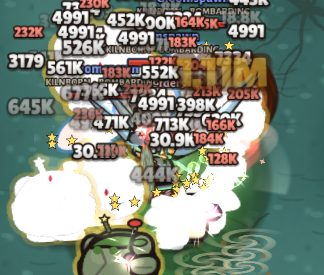
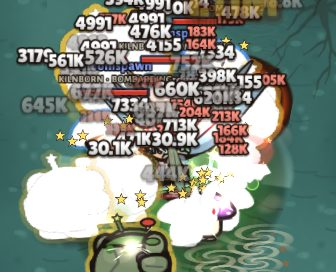
perf(render): additive prop lights batch with normal sprites; gate measures after bakes
Pixi blends premultiplied colour ('normal' = src + dst*(1 - src.a), 'add' = src + dst), so an fx texture's
premultiplied colour with alpha 0 adds light under normal blending exactly as the glow does under 'add' on the
opaque game canvas. additiveAsNormal() (art/fx.ts) builds such twins from the fx sheet's texels read back through
WebGL; prop glows and torch flames (art/map.ts) use them. The y-sorted props no longer alternate normal and additive
batches: the reference rift fight drops from 122 to 35 draw calls and 129 to 60 texture binds. Frozen-frame
readback, twins against the original 'add' sprites: 2 of 8.3 M channel values differ, by 1/255.

Against claude/town-ui-rework f6ccb15 (paired, concurrent, median ratios): rift main thread -9 %, GPU process -25 %,
fps +7 %, 4x CPU throttle fps +12 %; town crowd main -15 %, fps +16 %.

The client-perf gate now starts measuring once no hero sheet is queued for baking (window.__bakes; baking is
time-sliced, so its length depends on the machine), which made the town-crowd texture uploads deterministic.
Budgets tightened to the new numbers (rift 50 draw calls / 80 binds). PERF.md and the after-* captures updated.

diff --git a/client/src/render/art/fx.ts b/client/src/render/art/fx.ts
@@ -2,7 +2,7 @@
 // flame, swoosh arc). Canvas-backed, so the frames work in every Pixi renderer (the class-select previews
 // run their own Application) and every view reuses the same texture source.
 
-import { CanvasSource, Rectangle, Sprite, Texture, type Renderer } from 'pixi.js';
+import { BufferImageSource, CanvasSource, Rectangle, Sprite, Texture, type Renderer } from 'pixi.js';
 
 let rendererRef: Renderer | null = null;
 
@@ -27,6 +27,72 @@ export interface FxFrames {
 }
 
 let frames: FxFrames | null = null;
+let fxCanvas: HTMLCanvasElement | null = null;
+let fxSource: CanvasSource | null = null;
+
+// ───────────────────────── additive light without its own batch ─────────────────────────
+// Pixi blends premultiplied colour: 'normal' is src + dst·(1 − src.a) and 'add' is src + dst. A texture holding the
+// premultiplied colour of a glow with alpha 0 therefore adds light under 'normal' blending exactly as the glow does under
+// 'add' (on the opaque game canvas, whose alpha stays 1 either way), and it batches with the normal sprites around it,
+// where every switch to 'add' and back ends a batch (docs/rework/PERF.md §4, B1). Only for sprites drawn straight to
+// the game canvas: inside a transparent render texture (cacheAsTexture) the two differ where the glow covers nothing.
+
+let premultipliedFx: Uint8Array | null | undefined;
+/** The fx sheet's texels exactly as the GPU holds them (premultiplied on upload), read back once through WebGL. */
+function fxTexels(): Uint8Array | null {
+  if (premultipliedFx !== undefined) return premultipliedFx;
+  premultipliedFx = null;
+  const cv = fxCanvas;
+  if (!cv || typeof document === 'undefined') return null;
+  try {
+    const gl = document.createElement('canvas').getContext('webgl');
+    if (!gl) return null;
+    const tex = gl.createTexture();
+    gl.bindTexture(gl.TEXTURE_2D, tex);
+    gl.pixelStorei(gl.UNPACK_PREMULTIPLY_ALPHA_WEBGL, true);
+    gl.texImage2D(gl.TEXTURE_2D, 0, gl.RGBA, gl.RGBA, gl.UNSIGNED_BYTE, cv);
+    const fb = gl.createFramebuffer();
+    gl.bindFramebuffer(gl.FRAMEBUFFER, fb);
+    gl.framebufferTexture2D(gl.FRAMEBUFFER, gl.COLOR_ATTACHMENT0, gl.TEXTURE_2D, tex, 0);
+    if (gl.checkFramebufferStatus(gl.FRAMEBUFFER) === gl.FRAMEBUFFER_COMPLETE) {
+      const out = new Uint8Array(cv.width * cv.height * 4);
+      gl.readPixels(0, 0, cv.width, cv.height, gl.RGBA, gl.UNSIGNED_BYTE, out);
+      premultipliedFx = out;
+    }
+    gl.getExtension('WEBGL_lose_context')?.loseContext();
+  } catch { premultipliedFx = null; }
+  return premultipliedFx;
+}
+
+const additiveTextures = new Map<Texture, Texture | null>();
+/** The alpha-0 premultiplied twin of an fx-sheet texture (null when it cannot be made: then keep 'add'). */
+function additiveTwin(tex: Texture): Texture | null {
+  const known = additiveTextures.get(tex);
+  if (known !== undefined) return known;
+  let twin: Texture | null = null;
+  const px = tex.source === fxSource ? fxTexels() : null;
+  if (px && fxCanvas) {
+    const { x, y, width: w, height: h } = tex.frame, W = fxCanvas.width;
+    const data = new Uint8Array(w * h * 4);
+    for (let row = 0; row < h; row++) for (let col = 0; col < w; col++) {
+      const i = ((y + row) * W + x + col) * 4, o = (row * w + col) * 4;
+      data[o] = px[i]; data[o + 1] = px[i + 1]; data[o + 2] = px[i + 2]; data[o + 3] = 0;
+    }
+    twin = new Texture({ source: new BufferImageSource({ resource: data, width: w, height: h, format: 'rgba8unorm', alphaMode: 'premultiplied-alpha', scaleMode: 'linear' }) });
+  }
+  additiveTextures.set(tex, twin);
+  // the original stays reachable from the twin, so look checks can swap it back and compare pixels
+  if (twin) Object.assign(twin, { additiveOf: tex });
+  return twin;
+}
+
+/** Make an additive fx sprite batch with normal sprites, same pixels (see above). Returns the sprite. */
+export function additiveAsNormal<S extends Sprite>(s: S): S {
+  if (s.blendMode !== 'add') return s;
+  const twin = additiveTwin(s.texture);
+  if (twin) { s.texture = twin; s.blendMode = 'normal'; }
+  return s;
+}
 
 function radial(ctx: CanvasRenderingContext2D, cx: number, cy: number, r: number, stops: [number, string][]): void {
   const g = ctx.createRadialGradient(cx, cy, 0, cx, cy, r);
@@ -160,6 +226,7 @@ export function fx(): FxFrames {
   R.rays = new Rectangle(320, 256, 128, 128);
 
   const source = new CanvasSource({ resource: cv, scaleMode: 'linear' });
+  fxCanvas = cv; fxSource = source;
   const f = (r: Rectangle) => new Texture({ source, frame: r });
   frames = {
     shadow: f(R.shadow), glow: f(R.glow), glowSoft: f(R.glowSoft), sparkle: f(R.sparkle), ring: f(R.ring),

diff --git a/scripts/perf/replay-page.js b/scripts/perf/replay-page.js
@@ -39,7 +39,10 @@
   }
 
   window.__perfReplay = (b64, opts = {}) => new Promise((resolve, reject) => {
-    const { warmupMs = 3000, gl = true, censusEveryMs = 500, census: doCensus = true } = opts;
+    // waitBakes: also wait until no hero sheet is queued for baking (time-sliced per frame, so its length depends on the
+    // machine; window.__bakes from client/src/main.ts), so every run measures the same baked scene
+    const { warmupMs = 3000, gl = true, censusEveryMs = 500, census: doCensus = true, waitBakes = false } = opts;
+    const baking = () => waitBakes && (window.__bakes?.pending ?? 0) > 0;
     const bin = atob(b64), bytes = new Uint8Array(bin.length);
     for (let i = 0; i < bin.length; i++) bytes[i] = bin.charCodeAt(i);
     const dv = new DataView(bytes.buffer), recs = [];
@@ -58,11 +61,11 @@
     };
     pump();
     // Measurement window: after the warm-up, until the last message.
-    const frames = [], samples = []; let counters = null, started = false, last = 0, lastCensus = 0, allFrames = 0;
+    const frames = [], samples = []; let counters = null, started = false, measuredFrom = -1, last = 0, lastCensus = 0, allFrames = 0;
     const tick = (t) => {
       const el = t - t0; allFrames++;
-      if (el >= warmupMs) {
-        if (!started) { started = true; if (gl) counters = glCounters(); last = t; lastCensus = t - censusEveryMs; }
+      if (el >= warmupMs && (started || !baking())) {
+        if (!started) { started = true; measuredFrom = el; if (gl) counters = glCounters(); last = t; lastCensus = t - censusEveryMs; }
         else frames.push(t - last);
         last = t;
         if (doCensus && t - lastCensus >= censusEveryMs) { samples.push(census()); lastCensus = t; }
@@ -74,7 +77,7 @@
       const mx = (k) => samples.length ? Math.max(...samples.map((x) => x[k])) : 0;
       const per = (k) => counters ? +(counters.c[k] / n).toFixed(1) : 0;
       resolve({
-        frames: frames.length, allFrames, seconds: +((end - warmupMs) / 1000).toFixed(1), hidden: document.hidden,
+        frames: frames.length, allFrames, measuredFromMs: Math.round(measuredFrom), seconds: +((end - Math.max(warmupMs, measuredFrom)) / 1000).toFixed(1), hidden: document.hidden,
         fps: +(1000 / (frames.reduce((x, y) => x + y, 0) / n)).toFixed(1), p50: q(0.5), p95: q(0.95), p99: q(0.99),
         drawCalls: per('draw'), textureBinds: per('bindTexture'), textureUploads: +(counters ? (counters.c.texImage2D + counters.c.texSubImage2D) / n : 0).toFixed(2),
         bufferKB: counters ? +(counters.c.bufferBytes / n / 1024).toFixed(1) : 0, bufferUploads: per('bufferUploads'), programs: per('useProgram'),

diff --git a/client/src/render/art/map.ts b/client/src/render/art/map.ts
@@ -5,7 +5,7 @@ import { Container, Matrix, Sprite, type Renderer, type Texture } from 'pixi.js'
 import { T_PATH, T_PLAZA, T_WATER, type MapData, type Prop } from '@shared/mapgen';
 import type { MapLayers } from './index';
 import { bakeSheet, type Sheet } from './bake';
-import { flameSprite, fx, glowSprite } from './fx';
+import { additiveAsNormal, flameSprite, fx, glowSprite } from './fx';
 import { CHUNK, GroundLayer } from './ground';
 import { GROUND, type ThemeKey } from './palette';
 import { SORTED_KINDS, VARIANTS, decalGlow, drawDecal, drawProp, propFx } from './props';
@@ -119,15 +119,17 @@ function propView(p: Prop, sheet: Sheet, theme: ThemeKey): Container {
   for (const f of propFx(p.k, theme, v)) {
     const fxs = flip ? -1 : 1;
     const x = f.x * s * fxs, y = f.y * s;
+    // Prop lights add light as alpha-0 twins under normal blending: same pixels, and the y-sorted props no longer
+    // alternate normal / additive batches (every crystal or torch cost two extra draw calls; docs/rework/PERF.md).
     if (f.kind === 'glow' || f.kind === 'window') {
-      const g = glowSprite(f.color, f.size * s, f.kind === 'window' ? 0.32 : 0.5, true);
+      const g = additiveAsNormal(glowSprite(f.color, f.size * s, f.kind === 'window' ? 0.32 : 0.5, true));
       g.position.set(x, y);
       if (f.kind === 'window') g.scale.y *= 0.8;
       view.addChild(g);
       anims.push({ s: g, kind: f.kind, base: g.alpha, ph: Math.random() * 6, x, y, size: f.size });
     } else if (f.kind === 'flame') {
-      const outer = flameSprite(f.color, f.size * s, 0.9);
-      const inner = flameSprite(0xffd23f, f.size * s * 0.62, 0.95);
+      const outer = additiveAsNormal(flameSprite(f.color, f.size * s, 0.9));
+      const inner = additiveAsNormal(flameSprite(0xffd23f, f.size * s * 0.62, 0.95));
       outer.position.set(x, y); inner.position.set(x, y + 1);
       view.addChild(outer, inner);
       const ph = Math.random() * 6;

diff --git a/client/src/main.ts b/client/src/main.ts
@@ -19,6 +19,7 @@ import { Game } from './game/game';
 import { startPreviews } from './game/previews';
 import { cmd, session } from './net/api';
 import { initArt } from './render/art';
+import { bakeStats } from './render/art/player';
 import { App } from './ui/App';
 import { ui } from './ui/store';
 import { preferences } from './game/preferences';
@@ -78,7 +79,8 @@ async function boot() {
   const auto = qs.get('autostart');
   if (auto) session.start(auto, (qs.get('class') as 'warrior' | 'ranger' | 'mage') ?? 'warrior');
 
-  Object.assign(window as object, { __game: game, __cmd: cmd, __ui: ui, __prefs: preferences, __graphics: graphics });
+  // __bakes: hero sheets still queued for baking (the client perf gate measures once they are done)
+  Object.assign(window as object, { __game: game, __cmd: cmd, __ui: ui, __prefs: preferences, __graphics: graphics, __bakes: bakeStats });
 }
 
 void boot();

diff --git a/docs/rework/PERF.md b/docs/rework/PERF.md
@@ -54,6 +54,9 @@ GPU-process main thread ≈ 11.6 ms CPU per frame [M] — the busiest thread: We
 passes 2.8 (9 per frame) · swaps / shared images 1.6. **Hiding the whole HUD** cut the GPU process by 64 % and the main
 thread by 31 % (paired, 3 rounds) [M]: on this machine the HUD costs more than the game scene.
 
+Draw calls: of the fight's 122, about 85 came from the y-sorted props alternating a normal body and an additive glow —
+each crystal or torch ended two batches [M, instruction dump of the render groups].
+
 Why Pixi rebuilt everything each frame: any `zIndex` write marks the render group as structurally changed — and the
 y-sorted entity layer plus every hero rig (part depths follow the 3D pose) write new values every frame, even when the
 draw order stays the same. With a single render group (the stage) one change anywhere rebuilt the whole scene.
@@ -69,6 +72,7 @@ draw order stays the same. With a single render group (the stage) one change any
 | H3 | Number formatting reuses `Intl.NumberFormat` instances (`toLocaleString` is specified as exactly that) | `shared/src/format.ts`, test `shared/test/format.test.ts` | 0.67 ms/frame at 4× in the profile | identical (the test compares every case) |
 | H4 | Minimap monster dots set their shared styles once per paint | `Minimap.tsx` | H1–H4 together: a further −3 % main thread at 1× (paired) | identical strokes |
 | H5 | Cooldown sweep is its own compositor layer (`will-change: transform`), so its 10 Hz repaint no longer re-rasterises the drop-shadowed skill icons | `client/src/ui/styles/hud.css` | GPU process −13 %, fps +5 % (paired, 3 rounds) | ≤ 12/255 in 1,381 px of the sweep wedge; promoting the seconds too moved their glyphs 1 px, so they stay unpromoted |
+| B1 | Additive light without its own batch: prop glows and torch flames use an alpha-0 premultiplied twin of their fx texture under normal blending (premultiplied blending makes that exactly additive on the opaque game canvas), so the y-sorted props stop alternating normal / additive batches | `client/src/render/art/fx.ts` (`additiveAsNormal`), `art/map.ts` | rift draw calls **122 → 35**; GPU process −12 %, main −2 %, 4× fps +5 % (paired vs R1–H5, 3 rounds) | frozen-frame readback, twins vs the original textures with 'add': 2 of 8.3 M channel values differ, by 1/255 |
 | D1 | First run on a software rasteriser (SwiftShader / llvmpipe / Basic Render Driver) starts on the Low preset | `client/src/game/quality.ts`, `main.ts` | SwiftShader fight 2.7 → 3.6 fps (+33 %) | Low preset (only on those machines, only without saved settings) |
 
 **Bug found on the way (pre-existing, fixed):** in a crowded town (more than 40 active entities) remote heroes are
@@ -83,43 +87,40 @@ a real GPU (−1 to −4 % CPU: this fight is CPU-bound on rig and scene work, n
 
 ## 5. Before / after (production builds; before = `claude/town-ui-rework` f6ccb15, after = this branch)
 
-**Paired, concurrent** (both builds replay the same recording at the same time; median of per-round ratios; values are
-the lowest round, inflated because two browsers share the machine) [M]:
+**Paired, concurrent** (`scripts/perf/ab.mjs`: both builds replay the same recording at the same time; median of the
+per-round ratios; the values shown are one representative round, inflated because two browsers share the machine) [M]:
 
-| Scene | Metric | Before | After | Change |
+| Scene | Metric | Before | After | Change (median ratio) |
 |---|---|---|---|---|
-| Rift fight, 1× (4 rounds) | renderer main thread, CPU ms / frame | 8.02 | 7.44 | **−8 %** |
-| | GPU-process main thread, CPU ms / frame | 8.51 | 7.26 | **−15 %** |
-| | fps | 74.5 | 83.0 | **+10 %** |
-| Rift fight, 4× CPU throttle | fps | 11.4 | 12.2 | +7 % |
-| | main thread CPU ms / frame | 13.4 | 11.7 | −10 % |
-| Town crowd, 25 heroes, 1× (3 rounds) | renderer main thread | 16.8 | 14.2 | **−15 %** |
-| | GPU process | 12.6 | 11.9 | −5 % |
-| | fps | 39.3 | 44.7 | **+17 %** |
-| Town crowd, 4× | fps | 4.2 | 4.2 | +6 % (median ratio; rounds 4–11 fps) |
+| Rift fight, 1× (4 rounds) | renderer main thread, CPU ms / frame | 6.52 | 6.02 | **−9 %** |
+| | GPU-process main thread, CPU ms / frame | 6.03 | 4.77 | **−25 %** |
+| | fps | 88.5 | 90.8 | **+7 %** |
+| Rift fight, 4× CPU throttle | fps | 19.3 | 21.6 | **+12 %** |
+| | main thread CPU ms / frame | 10.9 | 9.8 | −11 % |
+| Town crowd, 25 heroes, 1× (3 rounds) | renderer main thread | 15.6 | 12.9 | **−15 %** |
+| | GPU process | 11.7 | 11.1 | −5 % |
+| | fps | 64.4 | 77.2 | **+16 %** |
+| Town crowd, 4× | fps | 11.0 | 11.9 | +8 % |
 
-**Sequential, interleaved** (A, B, B, A, A, B; medians of 3; absolute values on this machine) [M]:
+**Sequential runs are not evidence here.** Two interleaved sequential batches (A, B, B, A, A, B; medians of 3) disagreed:
+rift 4× went 19.0 → 25.5 fps in one and 27.4 → 22.9 in the other, single runs ranging 16–39 fps for the same build.
+On this shared machine only the paired ratios hold still (round-to-round spread ≤ 3 %).
 
-| Scene | Before | After |
-|---|---|---|
-| Rift 1× | 130 fps, p95 13.2 ms, main 5.4 ms, GPU process 5.3 ms | 131 fps, p95 13.5 ms, main 5.0 ms, GPU process 4.7 ms |
-| Rift 4× | **19.0 fps, p95 92 ms** | **25.5 fps, p95 66 ms** |
-| Town crowd 1× / 4× | 73 fps / 12.3 fps | 72 fps / 10.2 fps — load on the machine dominated these runs (per-run spread ±25 %); the paired ratios above are the evidence |
-
-At 1× the fight is past 120 fps on this machine either way (the owner's 34 fps was the pre-7bfa8c2 HUD on the dev
+At 1× the fight runs past 120 fps on this machine either way (the owner's 34 fps was the pre-7bfa8c2 HUD on the dev
 server; the unminified dev build is slower than what ships). The 4× and crowd numbers are what low-end PCs feel.
 
-**GPU-process trace, rift 1× (CPU ms per frame, single runs)** [M]: DOM raster 1.52 → **0.72**; HUD render passes
-2.29 → 2.24; WebGL 2.13 → 2.23; swaps 0.56 → 0.57; total 7.88 → 7.07.
+**GPU-process trace, rift 1× (CPU ms per frame, single runs, before B1)** [M]: DOM raster 1.52 → **0.72**; HUD render
+passes 2.29 → 2.24; WebGL 2.13 → 2.23; swaps 0.56 → 0.57; total 7.88 → 7.07. B1 then took WebGL work down with the
+draw calls (GPU process −12 % paired).
 
-**Per-frame work** (deterministic, the gate's numbers) [M]:
+**Per-frame work** (deterministic, the gate's counters) [M]:
 
 | | Draw calls | Texture binds | Buffer KB | Visible objects | Renderables |
 |---|---|---|---|---|---|
-| Rift before → after | 120 → 123 | 130 → 129 | 198 → 188 | 904 → 904 | 486 → 486 |
-| Town crowd before → after | 273 → 287 | 522 → 520 | 569 → 520 | 2,410 → 2,389 | 1,899 → 1,878 |
+| Rift before → after | 120 → **35** | 129 → **60** | 199 → 189 | 905 → 904 | 486 → 486 |
+| Town crowd before → after | 279 → 288 | 522 → 512 | 594 → 519 | 2,385 → 2,395 | 1,899 → 1,878 |
 
-**Look unchanged** [M]: frozen-frame readbacks in §4 (R2, H5); side-by-side captures at the same replay moment in
+**Look unchanged** [M]: frozen-frame readbacks in §4 (R2, H5, B1); side-by-side captures at the same replay moment in
 `docs/rework/shots/perf/` (`before-*` / `after-*`: town, rift fight, full-set hero close-up, town crowd).
 
 ## 6. Budgets and the gate (`npm run verify`, stage `client-perf`)
@@ -131,13 +132,15 @@ server (own port, isolated `DATA_DIR`, debug off), opens headless Chrome at 1920
 |---|---|---|
 | Idle town: DOM Paint events per frame | ≤ 0.1 | 0 |
 | Idle town and both replays: running CSS keyframe animations | transform / opacity / translate / rotate / scale only | 24 running, all compositor-only |
-| Rift fight (replayed): draw calls / texture binds / texture uploads / buffer KB per frame | ≤ 150 / 160 / 0.5 / 240 | 122 / 129 / 0 / 187 |
+| Rift fight (replayed): draw calls / texture binds / texture uploads / buffer KB per frame | ≤ 50 / 80 / 0.5 / 240 | 36 / 60 / 0 / 189 |
 | Rift fight: visible display objects / renderables | ≤ 1,100 / 600 | 905 / 486 |
-| Rift fight: DOM paints per frame | ≤ 1.0 | 0.64 |
-| Town crowd (replayed, 25 heroes): draws / binds / uploads / KB | ≤ 330 / 640 / 1.0 / 540 | 272 / 524 / 0.15 / 432 |
-| Town crowd: visible / renderables / DOM paints | ≤ 3,000 / 2,400 / 0.5 | 2,476 / 1,961 / 0.01 |
+| Rift fight: DOM paints per frame | ≤ 1.0 | 0.57 |
+| Town crowd (replayed, 25 heroes): draws / binds / uploads / KB | ≤ 330 / 660 / 0.5 / 540 | 272 / 505–544 / 0 / 426 |
+| Town crowd: visible / renderables / DOM paints | ≤ 3,000 / 2,400 / 0.5 | 2,466 / 1,950 / 0.01 |
 
-fps, p95 and thread CPU per frame are printed but never gated. The run also fails on page errors, a hidden page, or a
+Both replays start measuring after a 3 s warm-up and once no hero sheet is queued for baking (`window.__bakes`;
+baking is time-sliced, so how long it takes depends on the machine). fps, p95 and thread CPU per frame are printed but
+never gated. The run also fails on page errors, a hidden page, or a
 replay that no longer shows its scene (protocol change: re-record with `scripts/perf/record-fight.mjs` /
 `record-town.mjs`, see their headers). Raising a budget needs the new measurement and the reason in this file.
 
@@ -145,31 +148,35 @@ replay that no longer shows its scene (protocol change: re-record with `scripts/
 idle-town paints 2.91 per frame (budget 0.1), fight 5.05 (1.0), crowd 5.76 (0.5), and names `xpShine` (`left`),
 `hm-pulse` (`color`, `box-shadow`) and `keyPulse` (`box-shadow`) [M].
 
-Targets beyond the gate (not met yet, see §8): reference fight at 4× ≥ 30 fps (now 25.5); renderer main thread ≤ 4 ms
+Targets beyond the gate (not met yet, see §8): reference fight at 4× ≥ 30 fps (now about 20–25, see §5); renderer main thread ≤ 4 ms
 per frame at 1× so a 4× slower CPU still fits a 16 ms frame (now ~5.0 ms) [I].
 
 ## 7. Rules for art, VFX and HUD work (pass to the art-direction, Ranger and Mage agents)
 
 1. **No `filters` on scene objects** (blur, glow, drop shadow, colour matrix): each is an off-screen pass per frame.
    Glows are pre-baked sprites with `blendMode = 'add'` from the shared `fx()` sheet.
-2. **Keep a rig's additive parts together** in draw order (one effects container, as `PlayerArt.fxAdd`): every switch
+2. **Additive fx sprites drawn straight to the game canvas** (props, monsters, ground and world VFX): pass them through
+   `additiveAsNormal()` (`art/fx.ts`). Same pixels, no batch break — it took the rift fight from 122 to 35 draw calls.
+   Not inside anything that is rendered to a transparent texture first (pose-cached crowd heroes, `cacheAsTexture`):
+   there the twin and 'add' differ where the glow covers nothing.
+3. **Keep a rig's additive parts together** otherwise, in draw order (one effects container, as `PlayerArt.fxAdd`): every switch
    between normal and additive blending ends a batch (one more draw call). Hide unused glows with `visible = false`,
    not `alpha = 0` (alpha-0 sprites still split batches).
-3. **No per-frame `Graphics` rebuilds** (`clear()` + redraw re-tessellates on the CPU). Draw shapes once, bake them to a
+4. **No per-frame `Graphics` rebuilds** (`clear()` + redraw re-tessellates on the CPU). Draw shapes once, bake them to a
    texture (`bake.ts`), then move, tint and scale sprites.
-4. **No new texture per event or per item.** New canvases and textures are uploads plus extra binds; use the shared
+5. **No new texture per event or per item.** New canvases and textures are uploads plus extra binds; use the shared
    atlases (`fx()`, the glyph atlas, the hero sheet). The town crowd already binds ~520 textures per frame; series
    weapon drawings and gear-effect canvases are the main source: bake them into the hero sheet or one shared atlas.
-5. **Pool, don't churn.** Adding or removing children, or toggling `visible`, rebuilds that render group's draw
+6. **Pool, don't churn.** Adding or removing children, or toggling `visible`, rebuilds that render group's draw
    instructions (since R2: only the hero's own group, or the effect layer). Keep pooled sprites in the tree.
-6. **zIndex** is free in the scene's entity layer and inside a hero's body and `fxAdd` (lazily sorted). Anywhere else
+7. **zIndex** is free in the scene's entity layer and inside a hero's body and `fxAdd` (lazily sorted). Anywhere else
    a zIndex write makes the parent sorted and rebuilds its group every time: use child order, or `lazyDepthSort(c)`.
-7. **Particles** scale with `effectsFactor()` (Graphics → effects density).
-8. **HUD**: animate only transform and opacity (the gate fails otherwise); no `filter` on elements whose content
+8. **Particles** scale with `effectsFactor()` (Graphics → effects density).
+9. **HUD**: animate only transform and opacity (the gate fails otherwise); no `filter` on elements whose content
    changes; anything updating at 10 Hz or more over expensive content gets its own layer (`will-change: transform`),
    and compare the pixels (promoted text can shift 1 px); never assign `ctx.font` per frame; never call
    `toLocaleString` or `new Intl.*` per frame (use `shared/src/format.ts`).
-9. Before handing over: `npm run build`, then `DATA_DIR=<tmp> node scripts/client-perf-check.mjs`.
+10. Before handing over: `npm run build`, then `DATA_DIR=<tmp> node scripts/client-perf-check.mjs`.
 
 ## 8. What is left (needs a decision or a bigger change)
 
@@ -188,8 +195,10 @@ per frame at 1× so a 4× slower CPU still fits a 16 ms frame (now ~5.0 ms) [I].
    when a crowd arrives.
 5. Town life (residents, ambient motion) and NPC rigs: about 2 ms + 1.8 ms per frame in the busy square (contended
    profile).
-6. Texture binds in crowds (rule 4) and the per-hero render-group batch breaks (+14 draws in the crowd).
-7. 4× CPU: 25.5 fps (was 19). 30–60 fps there needs item 1 plus rig work (items 3–5).
+6. Texture binds in crowds (rule 5), the per-hero render-group batch breaks (+14 draws in the crowd) and the heroes' own
+   additive parts: the crowd still draws in 272 calls. Twins (B1) would cut that, but remote heroes are rendered into
+   transparent textures when pose-cached (over 40 entities), where twins look different; needs a cache-aware switch.
+7. 4× CPU: +12 % (paired). 30–60 fps there needs item 1 plus rig work (items 3–5).
 8. Integrated GPUs on HiDPI screens: High renders at 2× (four times the pixels of 1×). Starting them on render scale 1
    would help fill rate [I], but there is no integrated GPU here to measure it: not done.
 
